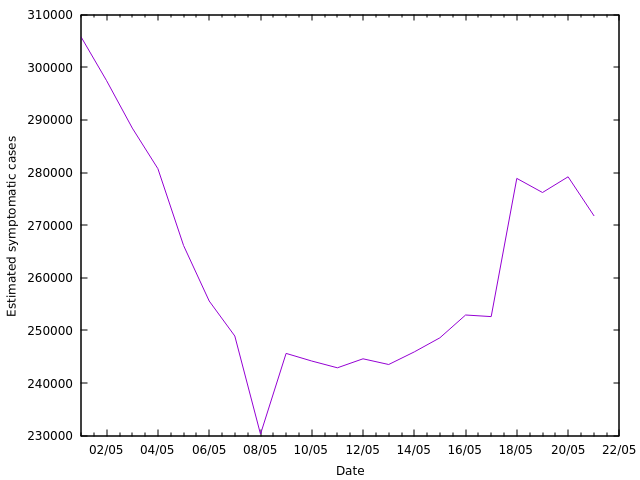
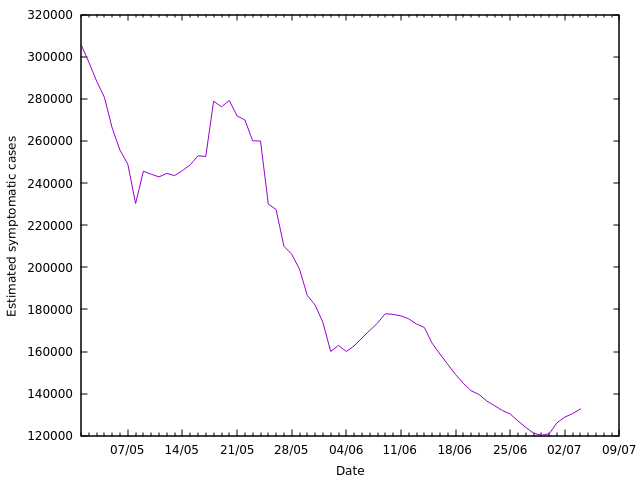
added data up to 4/7/20

diff --git a/README.md b/README.md
@@ -1,20 +1,13 @@
 # Estimate of the number of Symptomatic COVID-19 cases in the UK
 
-This data set is an estimate of the daily total number of people in the UK with symtomatic COVID-19. It is based on data collected by the COVID Symptom study app, available on [Google play](https://play.google.com/store/apps/details?id=com.joinzoe.covid_zoe) and [Apple store](https://apps.apple.com/gb/app/covid-symptom-tracker/id1503529611).
+This data set contains estimates of the daily total number of people in the UK with symtomatic COVID-19. It is based on data collected by the COVID Symptom study app, available on [Google play](https://play.google.com/store/apps/details?id=com.joinzoe.covid_zoe) and [Apple store](https://apps.apple.com/gb/app/covid-symptom-tracker/id1503529611).
 
-The original data can be found on the [JoinZoe](https://covid.joinzoe.com/data) website, but is presented as an animated gif, which isn't very convenient for analysis. Here I've transcribed the data to a csv file for convenience. I'll update these as new data becomes available on the joinzoe webiste.
+Daily estimates are posted on the [JoinZoe](https://covid.joinzoe.com/data) website along with historical data, rounded to the nearest 10,000. Here I've transcribed the daily, un-rounded data to a csv file for convenience. I'll update these as new data becomes available on the joinzoe webiste.
 
-On 10th May the UK Government [changed their advice](https://www.gov.uk/government/speeches/pm-address-to-the-nation-on-coronavirus-10-may-2020) from "stay at home" to "stay alert"; these are the case counts for May 2020:
+these are the case counts from May 2020:
 
 ![MayGraph!](/May.png)
 
 and, to put that in context, here are the counts since data was available:
 
 ![Graph!](/data.png)
-
-They aren't updating the total count every day, but they are updating the map most days. Here are the maps for 17th and 21st May:
-
-| 17<sup>th</sup> May | 21<sup>st</sup> May |
-| --- | --- |
-| ![17-05-20!](/ZoeUKMap05-17.png) | ![17-05-20!](/ZoeUKMap05-21.png) |
-|![key!](/ZoeMapKey.png) | ![key!](/ZoeMapKey.png)|
